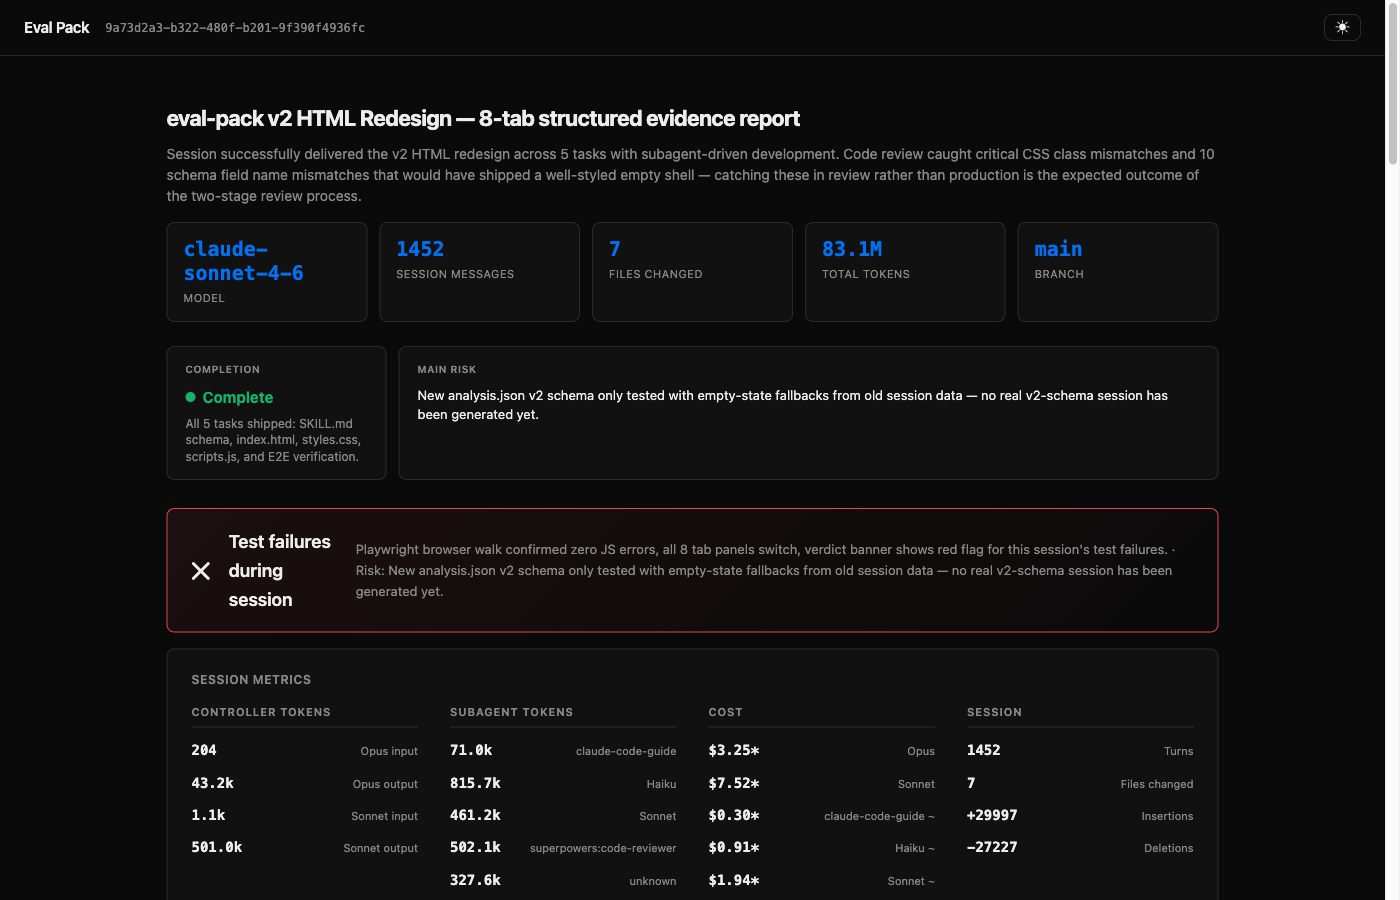
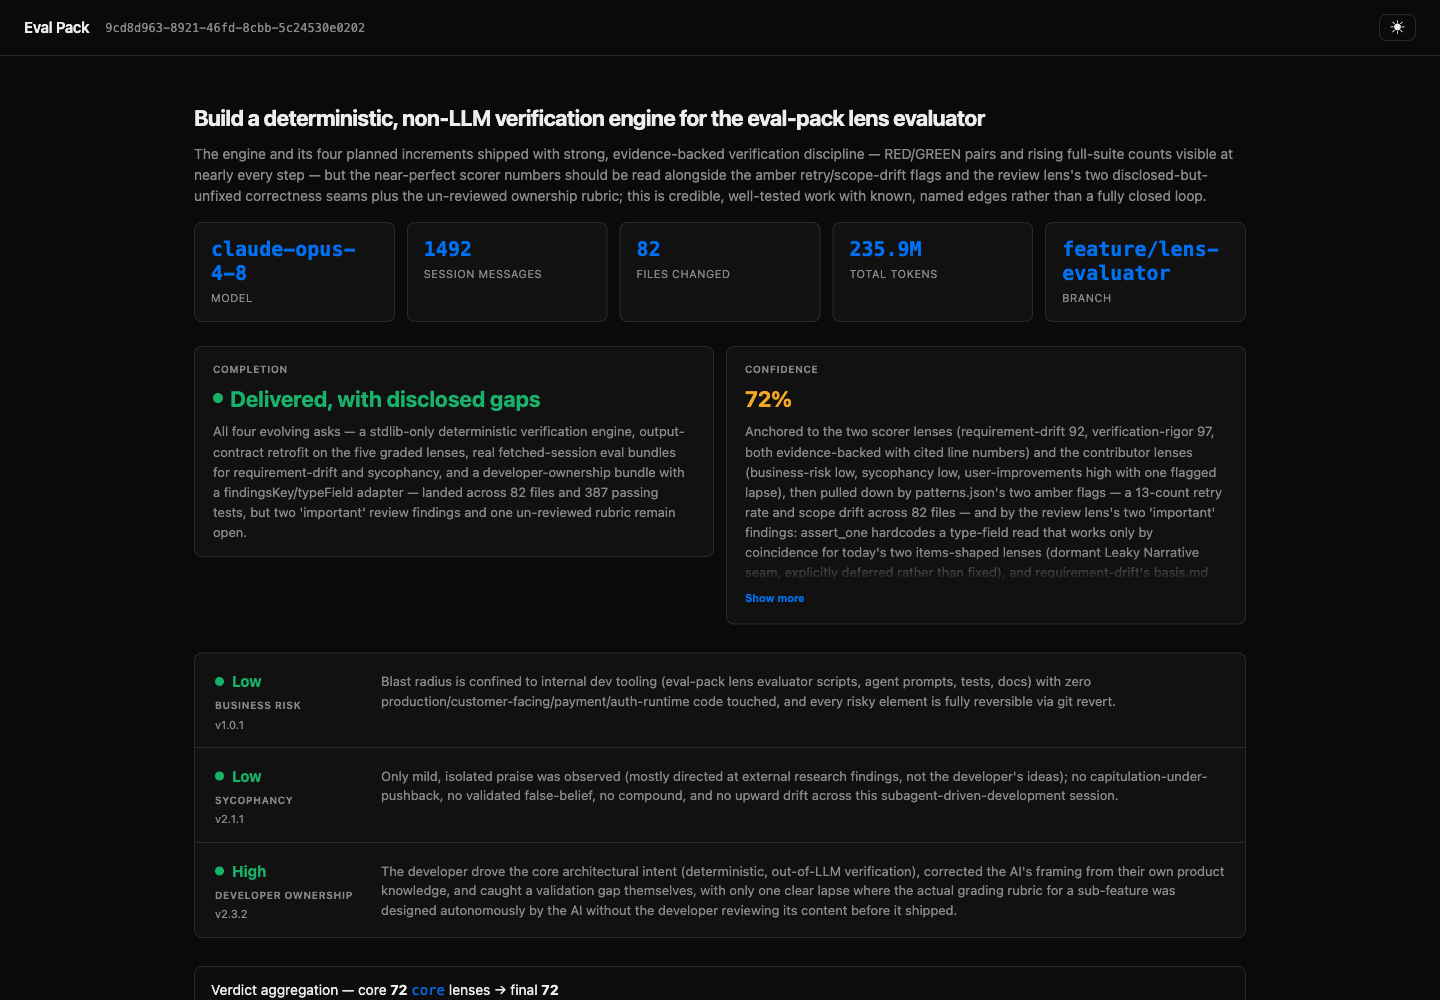
docs(readme): fix How-It-Works list, sync lens count, refresh screenshots
- Repair the broken 'How It Works' numbered list: 'Reviewer downloads zip'
  was orphaned after the default-on subsection and mis-numbered as a second 7;
  it is now step 8 in sequence.
- Step 4 named only 5 lenses while the rest of the doc says eight default-on;
  list all eight for consistency.
- Regenerate hero/metrics/tools screenshots from a current-template render
  (verdict-hero + lens scorecard, per-model token breakdown with the session-
  metrics disclaimer, tools bar chart + subagents) — the old shots predate the
  header/metrics overhaul.

diff --git a/README.md b/README.md
@@ -265,13 +265,14 @@ a nonzero exit — becomes that same red flag; it can't vanish silently.
 1. Dev (or agent) runs `/eval-pack:generate`
 2. Scripts extract metrics and detect heuristic patterns from the transcript
 3. Claude runs appropriate tests, captures screenshots and logs
-4. The configured judgment lenses run (default: requirement-drift, verification-rigor, review,
-   business-risk, friction) — each an independent agent, each writing its own finding to
-   `lenses/<skill>.json`
+4. The configured judgment lenses run (the eight bundled lenses, all default-on: requirement-drift,
+   verification-rigor, review, business-risk, friction, repo-improvements, user-improvements,
+   sycophancy) — each an independent agent, each writing its own finding to `lenses/<skill>.json`
 5. The evaluator synthesizes a single completion/confidence verdict from the lens findings and
    heuristic flags — it does not re-judge a dimension a lens already owns
 6. HTML report is rendered with all data, zipped to `.eval-packs/<session-id>.zip`
 7. `/eval-pack:review` commits the zip to the branch and creates a PR
+8. Reviewer downloads zip from the branch, extracts, opens `index.html`
 
 ### Lenses are default-on, and default-on means mandatory
 
@@ -281,7 +282,6 @@ skill is listed in `analysisLenses`, a run where that lens produces no output is
 gap — it surfaces as a non-suppressible red `lensFailed` flag. To turn a judgment dimension off,
 remove its entry from `analysisLenses` (at any config layer); there is no "best effort" middle
 ground where a configured lens is allowed to just not show up.
-7. Reviewer downloads zip from the branch, extracts, opens `index.html`
 
 ## Output
 
